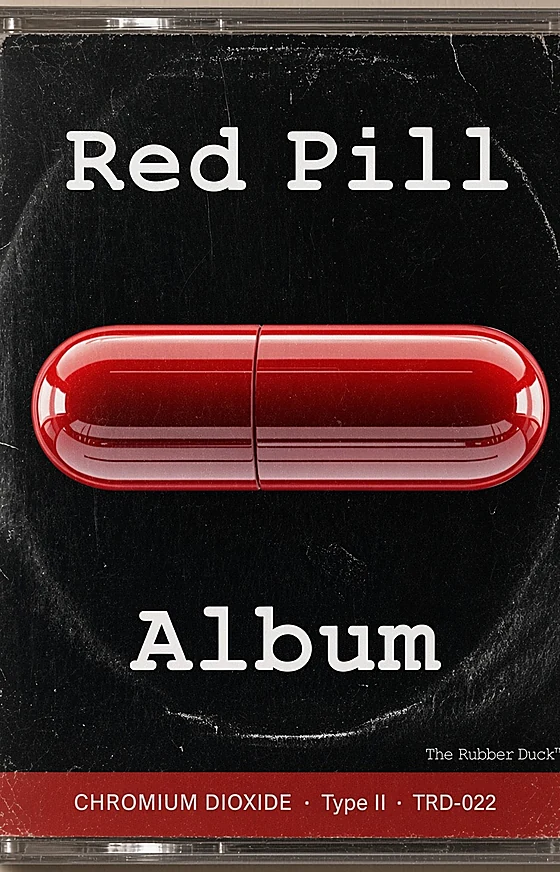
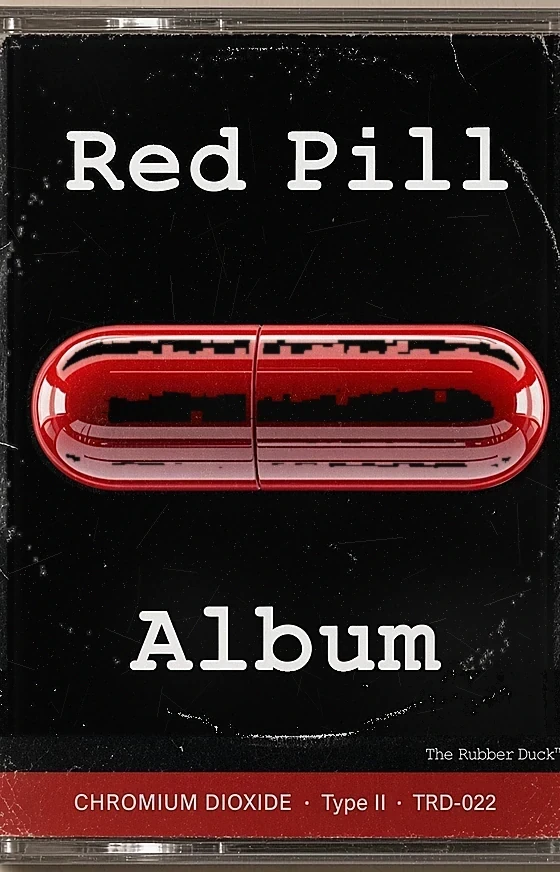
Homepage: keep Red Pill hover face inside fixed viewport
Clamp no longer undoes the top margin when clearing Press Play, so the
deck J-card stays on the anchored 100vh homepage. Desktop faces ~260px.

diff --git a/index.html b/index.html
@@ -252,6 +252,10 @@ body::before{content:"";position:fixed;inset:0;z-index:1;pointer-events:none;
 /* deck (Red Pill Album) upright Norelco face — same size language as spines */
 .deck{overflow:visible}
 .deck .spine-face{--sf-x:-50%;z-index:70;bottom:calc(100% + 10px);width:min(200px,48vw);max-width:220px}
+/* desktop / laptop: larger readable faces (~240–280px); after deck base so it wins */
+@media (hover:hover) and (pointer:fine) and (min-width:1024px){
+  .spine-face,.deck .spine-face{width:min(260px,28vw);max-width:280px}
+}
 @media (hover:hover) and (pointer:fine){
   .deck:hover .spine-face,.deck:focus-visible .spine-face{
     opacity:1;transform:translateX(calc(var(--sf-x) + var(--sf-clamp-x))) translateY(var(--sf-clamp-y)) perspective(920px) rotateY(-4deg) rotateX(3deg) translateY(0) scale(1)}
@@ -633,7 +637,7 @@ body::before{content:"";position:fixed;inset:0;z-index:1;pointer-events:none;
   document.addEventListener('trdpod:state',function(e){paint(e.detail);});
   paint(window.trdPod.state());
 })();
-/* upright Norelco faces: keep fully in-viewport; clear of PRESS PLAY / .deck */
+/* upright Norelco faces: keep fully inside the fixed homepage viewport */
 (function(){
   var MARGIN=10;
   function clampFace(host){
@@ -641,39 +645,80 @@ body::before{content:"";position:fixed;inset:0;z-index:1;pointer-events:none;
     if(!face)return;
     face.style.setProperty('--sf-clamp-x','0px');
     face.style.setProperty('--sf-clamp-y','0px');
+    /* two frames so :hover / .is-face-open size settles before measure */
     requestAnimationFrame(function(){
-      var r=face.getBoundingClientRect();
-      var dx=0,dy=0;
-      var vw=window.innerWidth||document.documentElement.clientWidth;
-      var vh=window.innerHeight||document.documentElement.clientHeight;
-      if(r.left<MARGIN)dx=MARGIN-r.left;
-      if(r.right>vw-MARGIN)dx=(vw-MARGIN)-r.right;
-      if(r.top<MARGIN)dy=MARGIN-r.top;
-      /* spine faces: never cover the cassette deck / PRESS PLAY keys */
-      var isDeck=host.classList&&host.classList.contains('deck');
-      var deck=document.querySelector('.deck');
-      if(deck&&!isDeck){
-        var d=deck.getBoundingClientRect();
-        var overlapX=Math.min(r.right+dx,d.right)-Math.max(r.left+dx,d.left);
-        var overlapY=Math.min(r.bottom+dy,d.bottom)-Math.max(r.top+dy,d.top);
-        if(overlapX>8&&overlapY>8){
-          var pushLeft=(d.left-MARGIN)-(r.right+dx);
-          if(r.left+dx+pushLeft>=MARGIN)dx+=pushLeft;
-          else dy=Math.min(dy,(d.top-MARGIN)-(r.bottom+dy));
+      requestAnimationFrame(function(){
+        var vw=window.innerWidth||document.documentElement.clientWidth;
+        var vh=window.innerHeight||document.documentElement.clientHeight;
+        var isDeck=host.classList&&host.classList.contains('deck');
+        var deck=document.querySelector('.deck');
+        var keys=deck&&deck.querySelector('.deck-keys');
+        var inStackB=!!(host.closest&&host.closest('.stack-b'));
+        var inStackA=!!(host.closest&&host.closest('.stack-a'));
+        var dx=0,dy=0;
+        function rect(){return face.getBoundingClientRect()}
+        function apply(){
+          face.style.setProperty('--sf-clamp-x',dx+'px');
+          face.style.setProperty('--sf-clamp-y',dy+'px');
         }
-      }
-      /* deck face: keep clear of PRESS PLAY keys — prefer above; nudge up if overlapping keys */
-      if(isDeck&&deck){
-        var keys=deck.querySelector('.deck-keys');
-        if(keys){
+        function overlaps(a,b){
+          if(!a||!b)return false;
+          return Math.min(a.right,b.right)-Math.max(a.left,b.left)>8 &&
+                 Math.min(a.bottom,b.bottom)-Math.max(a.top,b.top)>8;
+        }
+        function clampViewport(){
+          var r=rect();
+          if(r.left<MARGIN)dx+=MARGIN-r.left;
+          if(r.right>vw-MARGIN)dx+=(vw-MARGIN)-r.right;
+          apply();
+          r=rect();
+          /* top clamp is sacred on the fixed 100vh homepage — never undo */
+          if(r.top<MARGIN)dy+=MARGIN-r.top;
+          if(r.bottom>vh-MARGIN)dy+=(vh-MARGIN)-r.bottom;
+          apply();
+        }
+        clampViewport();
+        var r=rect();
+        /* deck face on PRESS PLAY: slide sideways or further DOWN — never back above the fold */
+        if(isDeck&&keys){
           var k=keys.getBoundingClientRect();
-          var ox=Math.min(r.right+dx,k.right)-Math.max(r.left+dx,k.left);
-          var oy=Math.min(r.bottom+dy,k.bottom)-Math.max(r.top+dy,k.top);
-          if(ox>8&&oy>8)dy=Math.min(dy,(k.top-MARGIN)-(r.bottom+dy));
+          if(overlaps(r,k)){
+            var pushR=(k.right+MARGIN)-r.left;
+            var pushL=(k.left-MARGIN)-r.right;
+            var pushDown=(k.bottom+MARGIN)-r.top;
+            if(r.right+pushR<=vw-MARGIN)dx+=pushR;
+            else if(r.left+pushL>=MARGIN)dx+=pushL;
+            else if(r.bottom+pushDown<=vh-MARGIN)dy+=pushDown;
+            apply();
+            clampViewport();
+            r=rect();
+          }
         }
-      }
-      face.style.setProperty('--sf-clamp-x',dx+'px');
-      face.style.setProperty('--sf-clamp-y',dy+'px');
+        /* spine faces: clear deck / keys without escaping the viewport */
+        if(deck&&!isDeck){
+          var d=deck.getBoundingClientRect();
+          var k2=keys&&keys.getBoundingClientRect();
+          var hitKeys=k2&&overlaps(r,k2);
+          var hitDeck=overlaps(r,d);
+          if(hitKeys||hitDeck){
+            var box=hitKeys?k2:d;
+            var pushR2=(box.right+MARGIN)-r.left;
+            var pushL2=(box.left-MARGIN)-r.right;
+            var pushU=box.top-MARGIN-r.bottom;
+            var pushD=(box.bottom+MARGIN)-r.top;
+            if(inStackB&&r.right+pushR2<=vw-MARGIN)dx+=pushR2;
+            else if(inStackA&&r.left+pushL2>=MARGIN)dx+=pushL2;
+            else if(r.right+pushR2<=vw-MARGIN)dx+=pushR2;
+            else if(r.left+pushL2>=MARGIN)dx+=pushL2;
+            else if(r.top+pushU>=MARGIN)dy+=pushU;
+            else if(r.bottom+pushD<=vh-MARGIN)dy+=pushD;
+            apply();
+            clampViewport();
+          }
+        } else {
+          clampViewport();
+        }
+      });
     });
   }
   function bindHoverClamp(){
